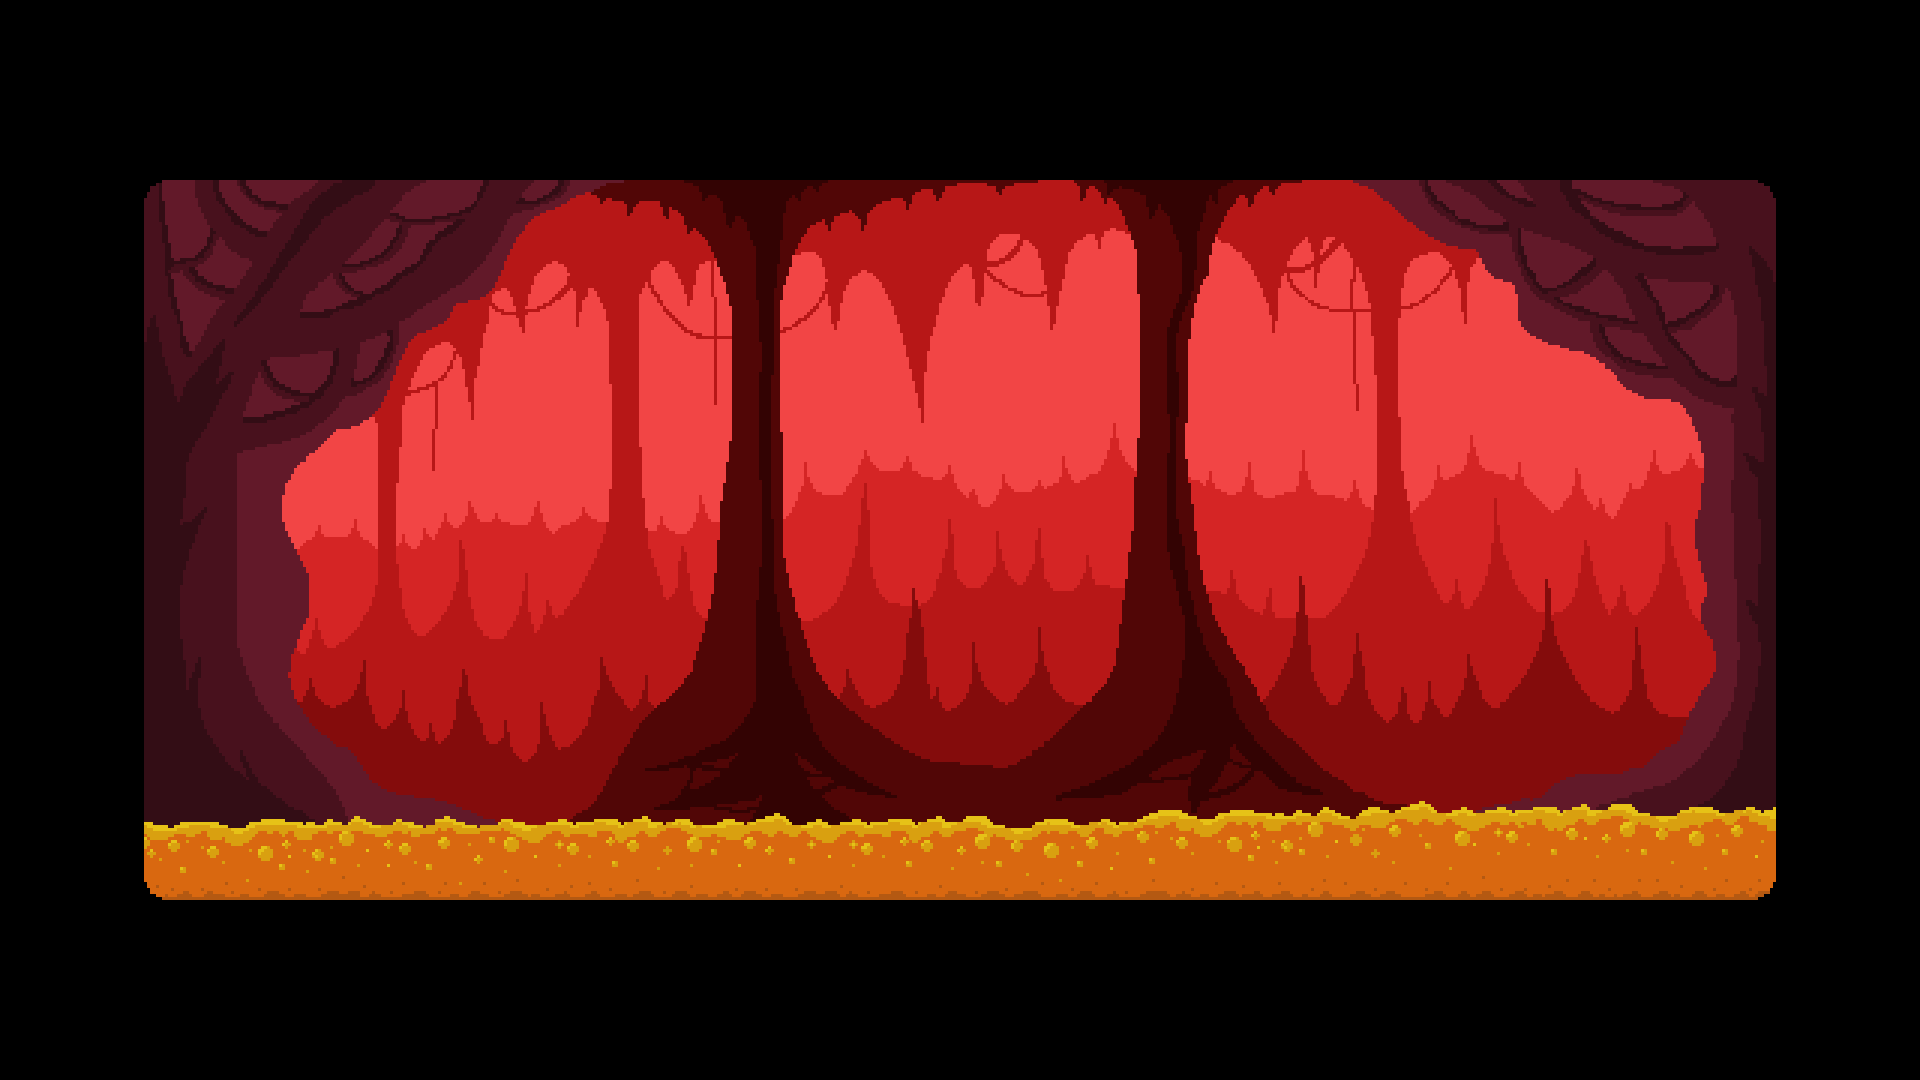
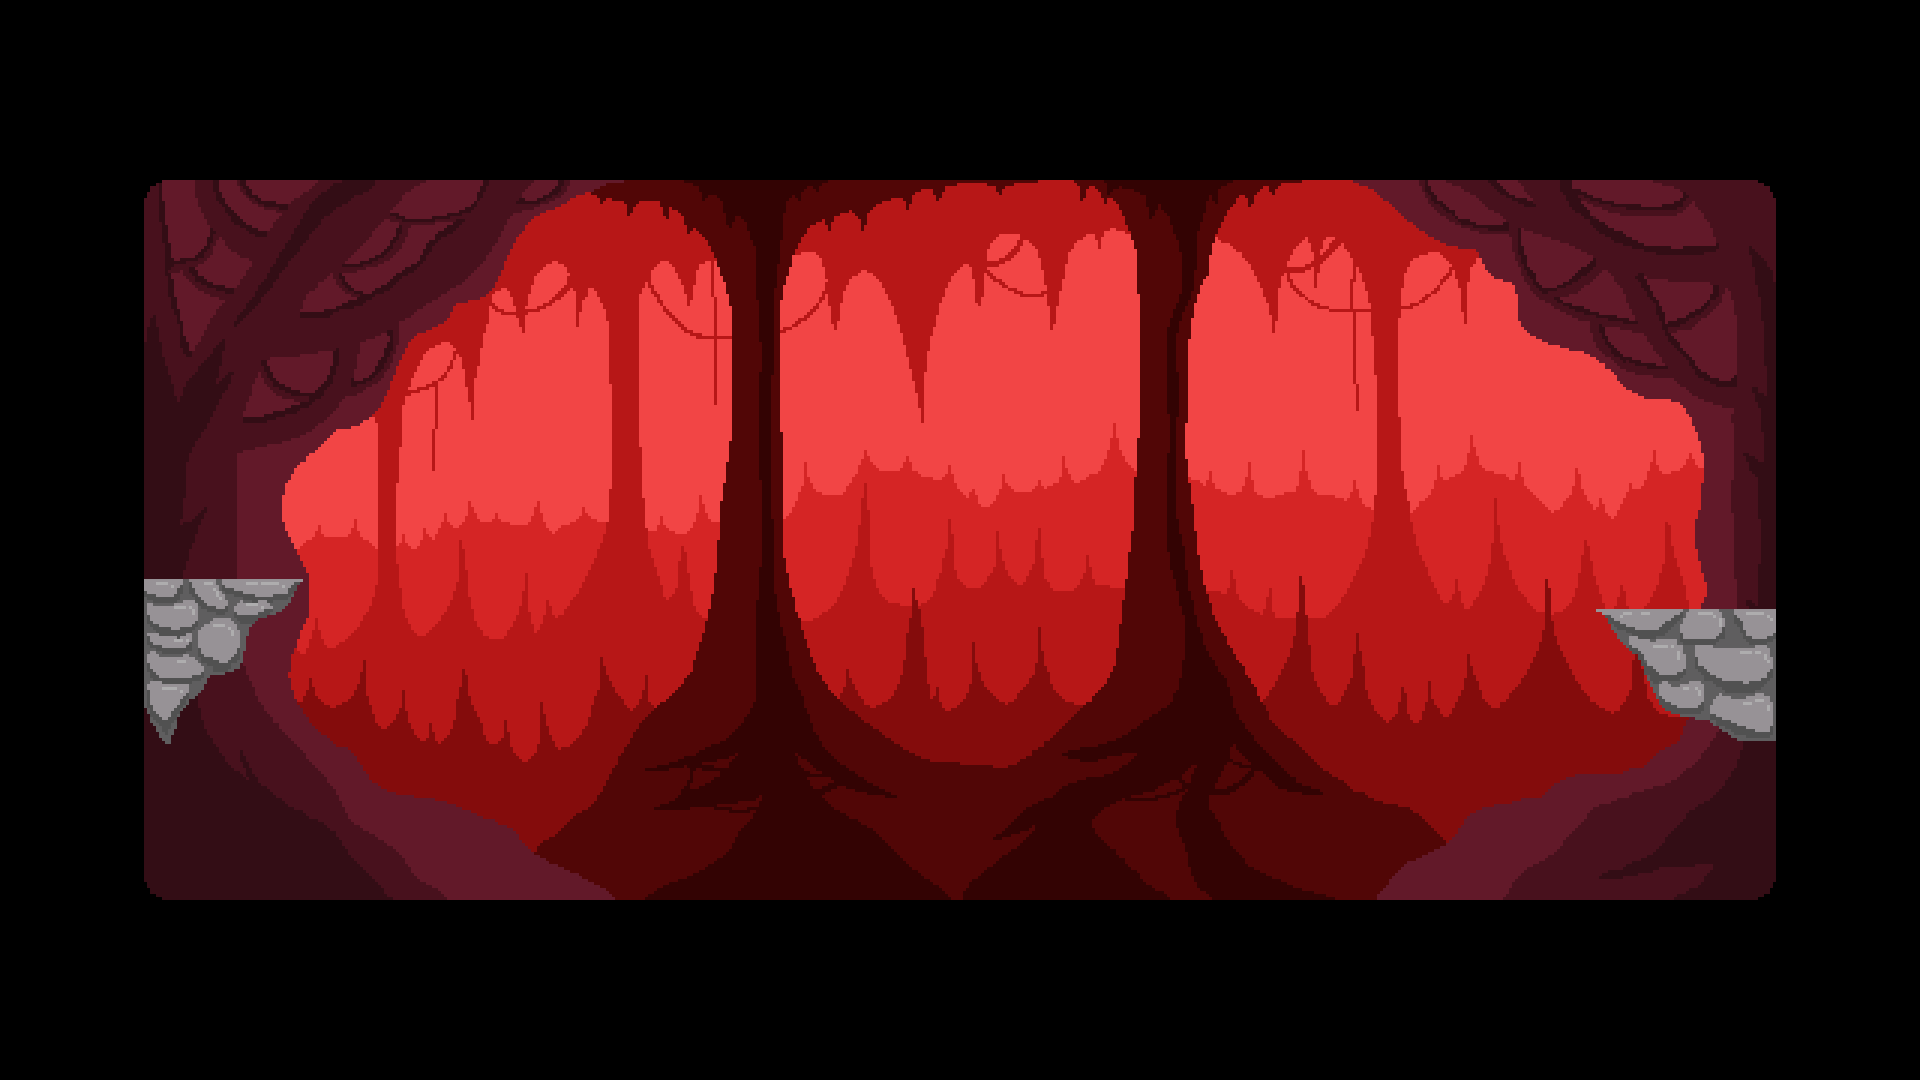
changed temporary enemy to new enemy sprite
added new bat sprite frames for the level 4 enemy, updated the background for each parkour level, small fixes for lava positioning

Changed region(s): [[0.0625, 0.6417, 0.9375, 0.8556], [0.8125, 0.55, 0.9375, 0.7028], [0.0625, 0.5194, 0.1562, 0.7028]]

diff --git a/An Phiast Game/game/script.js b/An Phiast Game/game/script.js
@@ -161,12 +161,23 @@ let lavaFrameDelay = 40;
 
 let lastTime = 0; // for delta time
 
-const patrolBatSprite = new Image();
-patrolBatSprite.src = "assets/images/bat.png"; //bat temporary sprite
-
-let patrolBat = null;
-
 let wasTouchingExit = false;// to see if player was touching exit to prevent instant level change
+
+// level 4 bat animation frames
+const batLevelFourFrames = [];
+
+for (let i = 1; i <= 6; i++) {
+    const img = new Image();
+    img.src = "assets/images/bat4_" + i + ".png";
+    batLevelFourFrames.push(img);
+}
+
+let batLevelFourFrameIndex = 0;
+let batLevelFourFrameCounter = 0;
+let batLevelFourFrameDelay = 8; // adjust speed
+let batLevelFour = null;
+
+
 
 
 
@@ -307,7 +318,7 @@ const levels = [
     },
 
     {
-    backgroundSrc: "assets/images/background4nolava.png",//background lvl 4
+    backgroundSrc: "assets/images/caveOne.png",//background lvl 4
         walls: [
             {x: 132, y: 418, width: 3, height: 194},
             {x: 145, y: 619, width: 152, height: 3},
@@ -428,29 +439,23 @@ function loadLevel(levelIndex) {
     enemy3 = null;
     updateHintText();
 
+    // spawn level 4 bat
+    if (levelIndex === 3) {
+        batLevelFour = {
+            x: 1721,
+            y: 510,
+            startX: 1721,
+            endX: 155,
+            size: 100,
+            speed: 8,
+            direction: "left"
+        };
 
-    patrolBat = null;
-
-if (levelIndex === 3) {
-
-    patrolBat = {
-        x: 1721,
-        y: 510,
-
-        startX: 1721,
-        endX: 155,
-
-        size: 100,
-        speed: 8,
-
-        direction: "left",
-
-        frameX: 0,
-        maxFrame: 4,
-        frameCounter: 0,
-        frameDelay: 10
-    };
-}
+        batLevelFourFrameIndex = 0;
+        batLevelFourFrameCounter = 0;
+    } else {
+        batLevelFour = null;
+    }
 
 }
 
@@ -673,28 +678,37 @@ if (currentLevel === 3 || currentLevel === 4 || currentLevel === 5) {
     if (enemy2) { moveEnemy(enemy2); animateEnemy(enemy2); }
     if (enemy3) { moveEnemy(enemy3); animateEnemy(enemy3); }
 
-
-    if (patrolBat && currentLevel === 3) {
+    // level 4 bat movement + lava-style animation
+    if (batLevelFour && currentLevel === 3) {
 
         // movement
-        if (patrolBat.direction === "left") {
-            patrolBat.x -= patrolBat.speed * deltaTime;
+        if (batLevelFour.direction === "left") {
+            batLevelFour.x -= batLevelFour.speed * deltaTime;
         } else {
-            patrolBat.x += patrolBat.speed * deltaTime;
+            batLevelFour.x += batLevelFour.speed * deltaTime;
         }
 
         // turn around
-        if (patrolBat.x <= patrolBat.endX) {
-            patrolBat.direction = "right";
+        if (batLevelFour.x <= batLevelFour.endX) {
+            batLevelFour.direction = "right";
+        }
+        if (batLevelFour.x >= batLevelFour.startX) {
+            batLevelFour.direction = "left";
         }
 
-        if (patrolBat.x >= patrolBat.startX) {
-            patrolBat.direction = "left";
-        }
+        // animation for bat
+        batLevelFourFrameCounter++;
 
-        // animate the enemy
-        animateEnemy(patrolBat);
+        if (batLevelFourFrameCounter >= batLevelFourFrameDelay) {
+            batLevelFourFrameCounter = 0;
+            batLevelFourFrameIndex++;
+
+            if (batLevelFourFrameIndex >= batLevelFourFrames.length) {
+                batLevelFourFrameIndex = 0;
+            }
+        }
     }
+
 
     // shoot arrow if bow collected
     if (bow && bow.collected && pressedKeys[" "] && !arrow) {
@@ -862,29 +876,27 @@ if (!invincible && currentLevel === 2) {
 
     wasTouchingExit = touchingExit;
 
-    // enemy collision level 4 smaller hitboxes 
-    if (currentLevel === 3 && patrolBat) {
+    // level 4 bat collision
+    if (batLevelFour && currentLevel === 3) {
 
-    const level4PlayerHitbox = {
-        x: player.x + 15,
-        y: player.y + 15,
-        size: player.size - 30
-    };
+        const playerHitbox = {
+            x: player.x + 15,
+            y: player.y + 15,
+            size: player.size - 30
+        };
 
-    const level4BatHitbox = {
-        x: patrolBat.x + 20,
-        y: patrolBat.y + 20,
-        size: patrolBat.size - 40
-    };
+        const batHitbox = {
+            x: batLevelFour.x + 20,
+            y: batLevelFour.y + 20,
+            size: batLevelFour.size - 40
+        };
 
-    if (isColliding(level4PlayerHitbox, level4BatHitbox)) {
-
-        player.x = 177;
-        player.y = 540;
-
-        velocityY = 0;
+        if (isColliding(playerHitbox, batHitbox)) {
+            player.x = 177;
+            player.y = 540;
+            velocityY = 0;
+        }
     }
- }
 
 
 
@@ -968,7 +980,7 @@ function draw() {
         lavaFrames[lavaFrameIndex].complete //loading check
     ) {
         const lavaHeight = 105;
-        const lavaRaiseAmount = 187;
+        const lavaRaiseAmount = 180;
         const lavaY = canvas.height - lavaHeight - lavaRaiseAmount; // raise lava and set sprite hight
 
         const lavaWidth = canvas.width - 285; // squash image inwards
@@ -1073,48 +1085,39 @@ if (enemy3) {
     );
 }
 
-if (patrolBat) {
+    // draw level 4 bat
+    if (
+        batLevelFour &&
+        batLevelFourFrames[batLevelFourFrameIndex] &&
+        batLevelFourFrames[batLevelFourFrameIndex].complete
+    ) {
+        ctx.save();
 
-    const frameWidth = patrolBatSprite.width / (patrolBat.maxFrame + 1);
-    const frameHeight = patrolBatSprite.height;
+        // flip when moving right
+        if (batLevelFour.direction === "right") {
+            ctx.translate(batLevelFour.x + batLevelFour.size, batLevelFour.y);
+            ctx.scale(-1, 1);
 
-    ctx.save();
+            ctx.drawImage(
+                batLevelFourFrames[batLevelFourFrameIndex],
+                0,
+                0,
+                batLevelFour.size,
+                batLevelFour.size
+            );
+        } else {
+            ctx.drawImage(
+                batLevelFourFrames[batLevelFourFrameIndex],
+                batLevelFour.x,
+                batLevelFour.y,
+                batLevelFour.size,
+                batLevelFour.size
+            );
+        }
 
-    // flip when moving right
-    if (patrolBat.direction === "right") {
-
-        ctx.translate(patrolBat.x + patrolBat.size, patrolBat.y);
-        ctx.scale(-1, 1);
-
-        ctx.drawImage(
-            patrolBatSprite,
-            patrolBat.frameX * frameWidth,
-            0,
-            frameWidth,
-            frameHeight,
-            0,
-            0,
-            patrolBat.size,
-            patrolBat.size
-        );
-
-    } else {
-        //draws enemy as normal when moving left
-        ctx.drawImage(
-            patrolBatSprite,
-            patrolBat.frameX * frameWidth,
-            0,
-            frameWidth,
-            frameHeight,
-            patrolBat.x,
-            patrolBat.y,
-            patrolBat.size,
-            patrolBat.size
-        );
+        ctx.restore();
     }
 
-    ctx.restore();
-}
 
 
     // draw score only for level 3
